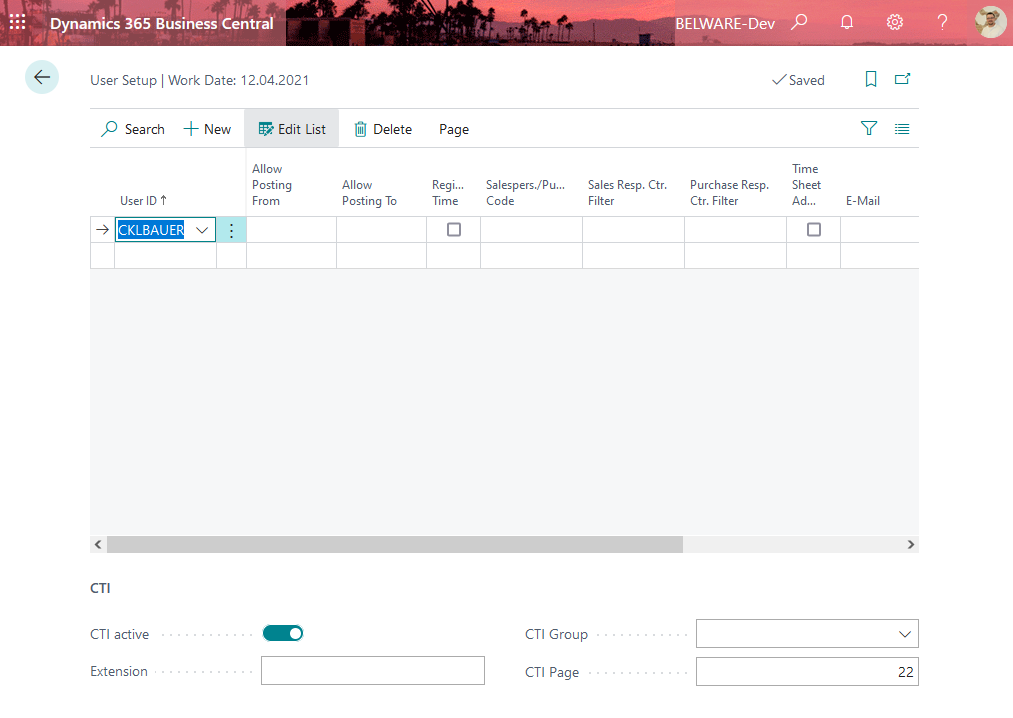
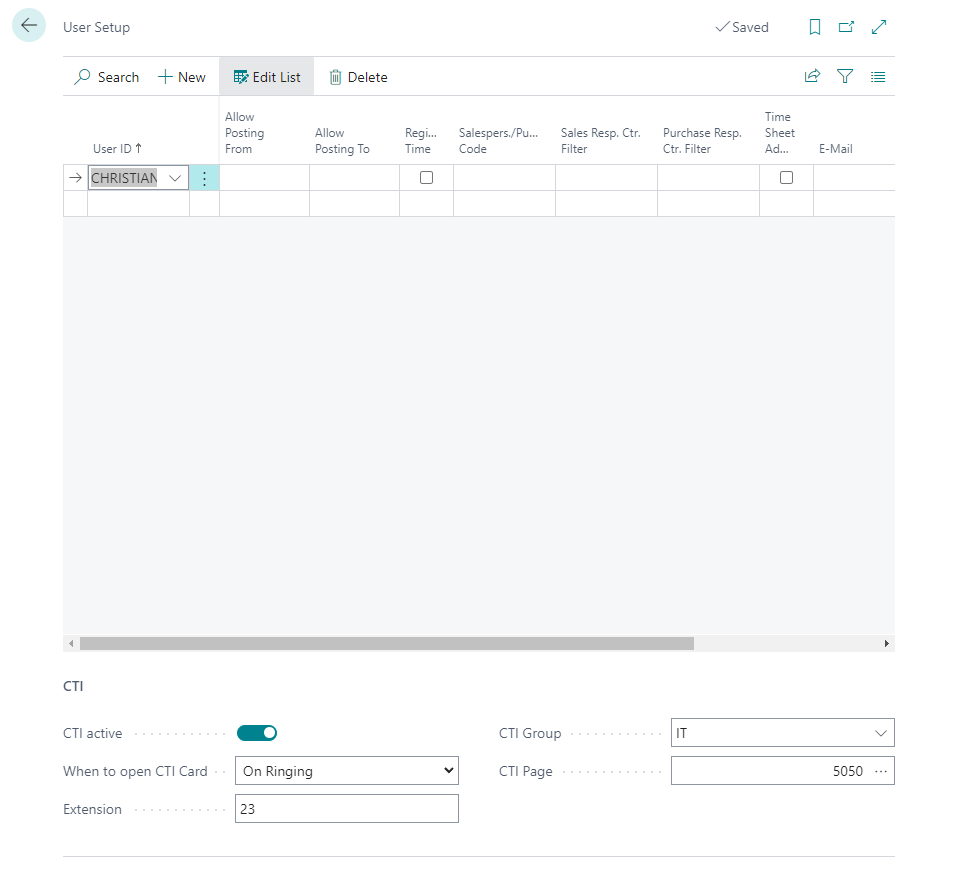
Update 171121 - Verschiedene Änderungen

diff --git a/content/de-de/Apps/CTI for STARFACE/first steps/setup/user & groups.md b/content/de-de/Apps/CTI for STARFACE/first steps/setup/user & groups.md
@@ -25,7 +25,7 @@ Wiederholen Sie diesen Prozess bis alle gewünschten Gruppen angelegt sind.
 
 Als nächsten Schritt sollten Sie Ihre Nutzer anlegen. öffnen Sie erneut die Suchfunktion und suchen Sie nach **"Benutzer Einrichtung"**, legen Sie in der Tabelle den gewünschten Nutzer an, falls dieser noch nicht vorhanden ist. Setzen Sie anschließend im unteren Teil des Dialogs bei **"CTI aktiv"** den Haken um die Nutzung der CTI für diesen Nutzer freizugeben.
 
-Geben Sie nun noch im Feld für die Durchwahl, die entsprechende Durchwahl des Nutzers an. Zum schluss können Sie dem Nutzer noch optional eine Gruppe zuweisen, dies können Sie im Feld **"CTI Gruppe"** vornehmen.
+Geben Sie nun noch im Feld für die Durchwahl, die entsprechende Durchwahl des Nutzers an. Anschließend können Sie dem Nutzer noch optional eine Gruppe zuweisen, dies können Sie im Feld **"CTI Gruppe"** vornehmen.
 
 Im Feld **"CTI-Seite"** können Sie die beliebige Seiten ausgewählt werden, welche sich bei eingehenden Anrufen automatisch öffnet. Diese Seiten basieren auf den folgenden Tabellen:
 
@@ -34,5 +34,7 @@ Im Feld **"CTI-Seite"** können Sie die beliebige Seiten ausgewählt werden, wel
 - Kreditoren (27)
 
 Bei Debitoren und Kreditoren ist zu beachten, dass diese mit einem Kontakt verknüpft sein müssen.
+
+Im Feld **"Wann die CTI-Karte zu öffnen ist"** lässt sich einrichten, wann genau der Kontakt geöffnet wird. Entweder beim eingehenden Anruf oder erst wenn der Anruf von jemandem angenommen wird.
 
 Wiederholen Sie diesen Prozess für alle Nutzer der Connector 365 CTI for STARFACE App.

diff --git a/content/de-de/Apps/CTI for STARFACE/new and planned/V1.0.1.8.md b/content/de-de/Apps/CTI for STARFACE/new and planned/V1.0.1.8.md
@@ -1,19 +1,18 @@
 ---
-title: "V1.0.1.3 & Roadmap"
+title: "V1.0.1.8 & Roadmap"
 date: 2020-02-28T10:08:56+09:00
 description: 
 draft: false
 collapsible: false
-weight: 2
+weight: 1
 ---
 ### Neu und geplant
 
-### Version 1.0.1.3
-- Warnung beim schließen des CTI-Clients
-- Änderung der Einrichtung des Moduls
+### Version 1.0.1.8
+- Die Telefonnotizen lassen sich nun im Nachhinein bearbeiten.
+- Es lässt sich einstellen wann sich die CTI-Karte öffnet.
 
 ### Geplante Funktionen für zukünftige Versionen
 - Automatisches Anlegen von kontakten bei unbekannten Nummern
 - Anpassung der Jobliste passend zur App
-- Editierbare CTI Notizen
 - Ausblenden der CTI Funktionen im Rollencenter für Nicht-CTI-Nutzer

diff --git a/content/de-de/Apps/CTI for STARFACE/working with CTI for STARFACE/cti notes.md b/content/de-de/Apps/CTI for STARFACE/working with CTI for STARFACE/cti notes.md
@@ -19,6 +19,8 @@ Wählen Sie zunächst den entsprechenden Eintrag in den **"CTI-Einträgen"** aus
 
 Nachdem Sie Ihre Notiz verfasst haben wird diese in den Notizen angezeigt. Um die verfasste Notiz erneut einzusehen können Sie entweder über die gleiche Schaltfläche zum erstellen von Notizen, sich erstellte Notizen erneut anzeigen lassen oder alternativ auf die 3 Punkte neben der Notiz klicken, dort finden Sie ebenfalls die Option zur Ansicht.
 
+Wird die Notiz angezeigt, so ist es hier auch nochmal möglich die Notiz zu bearbeiten.
+
 ![](images/apps/ctinotefillde.PNG)
 
 Ein längeres hovern über die Vorschau der Nachricht in der Factbox zeigt Ihnen die geschriebene Notiz auch an.

diff --git a/content/en-us/Apps/CTI for STARFACE/new and planned/V1.0.1.8.md b/content/en-us/Apps/CTI for STARFACE/new and planned/V1.0.1.8.md
@@ -1,20 +1,18 @@
 ---
-title: "V1.0.1.3 & Roadmap"
+title: "V1.0.1.8 & Roadmap"
 date: 2020-02-28T10:08:56+09:00
 description: 
 draft: false
 collapsible: false
-weight: 2
+weight: 1
 ---
 ### New and planned
 
-### Version 1.0.1.3
-- Warning when closing the CTI Client
-- Changes to the module setup
+### Version 1.0.1.8
+- The phone notes can now be edited afterwards.
+- It is possible to set when the CTI card opens.
 
 ### Planned functions for future versions
 - Automatic creation of contacts for unknown numbers
 - Customization of the job list to match the app
-- Editable CTI notes
 - Hiding the CTI functions in the Role center for non-CTI users
-

diff --git a/content/en-us/Apps/CTI for STARFACE/working with CTI for STARFACE/cti notes.md b/content/en-us/Apps/CTI for STARFACE/working with CTI for STARFACE/cti notes.md
@@ -19,6 +19,8 @@ First select the corresponding entry in the **"CTI entries"**, now look in the r
 
 After you have written your note, it will be displayed in the notes. To view the note again, you can either click on the same button to create notes, to view created notes again or alternatively click on the 3 dots next to the note, there you will also find the option to view.
 
+If the note is displayed, it is also possible to edit the note here again.
+
 ![](images/apps/ctinotefillen.PNG)
 
 A longer hover over the preview of the message in the factbox will also show you the written note.

diff --git a/content/de-de/Apps/E-Post/first steps/setup/reportselection.md b/content/de-de/Apps/E-Post/first steps/setup/reportselection.md
@@ -11,8 +11,8 @@ weight: 2
 ### Berichtsauswahl
 Vor dem ersten Versand, muss in der Berichtsauswahl die Berichte für den E-POST Versand festgelegt werden. Aktuell gibt es diese Möglichkeit in **"Berichtsauswahl Verkauf"** und **"Berichtsauswahl Mahnung"**
 
-[SCREENSHOT]
+![](images/apps/epostreportselectionde.PNG)
 
-Nur Berichte bei denen der Haken in der Option "Für E-POST nutzen" gesetzt ist, werden berücksichtigt.
+Nur Berichte bei denen der Haken in der Option **"Für E-POST nutzen"** gesetzt ist, werden berücksichtigt.
 
 

diff --git a/content/de-de/Apps/easybatch/new and planned/V1.0.0.6.md b/content/de-de/Apps/easybatch/new and planned/V1.0.0.6.md
@@ -1,17 +1,15 @@
 ---
-title: "V1.0.0.0 & Roadmap"
+title: "V1.0.0.6 & Roadmap"
 date: 2020-02-28T10:08:56+09:00
 description: 
 draft: false
 collapsible: false
-weight: 2
+weight: 1
 ---
 ### Neu und geplant
 
-### Version 1.0.0.0
-- Intelligente Prozesssteuerung
-- Stapelverarbeitung von Belegen
-- Steuerung via Belegsendeprofilen
+### Version 1.0.0.6
+- Logik bei der Auswahl des Berichtslayouts an den Standard angeglichen
 
 ### Geplante Funktionen für zukünftige Versionen
 - Integration von kreditorischen Belegen.

diff --git a/content/en-us/Apps/E-Post/first steps/setup/reportselection.md b/content/en-us/Apps/E-Post/first steps/setup/reportselection.md
@@ -11,6 +11,8 @@ weight: 2
 ### Report selection
 Before sending the first letter, the reports for sending with E-POST must be defined in the report selection. Currently, this option is available in **"Report selection sales"** and **"Report selection reminder"**.
 
-Only reports with a check mark in the "Use for E-POST" option are taken into account.
+![](images/apps/epostreportselectionen.PNG)
+
+Only reports with a check mark in the **"Use for E-POST"** option are taken into account.
 
 

diff --git a/content/en-us/Apps/mail_attachment_plus/new and planned/V1.0.0.8.md b/content/en-us/Apps/mail_attachment_plus/new and planned/V1.0.0.8.md
@@ -1,17 +1,15 @@
 ---
-title: "V1.0.0.7 & Roadmap"
+title: "V1.0.0.8 & Roadmap"
 date: 2020-02-28T10:08:56+09:00
 description: 
 draft: false
 collapsible: false
-weight: 2
+weight: 1
 ---
 ### New and planned
 
-### Version 1.0.0.7
-- Bug fixes
-- Improving the translation
-- Document attachments as email attachments
+### Version 1.0.0.8
+- Error correction during transfer of attachments
 
 ### Planned features for future versions
 - Attachment functionalities on further levels

diff --git a/content/de-de/Apps/mail_attachment_plus/new and planned/V1.0.0.8.md b/content/de-de/Apps/mail_attachment_plus/new and planned/V1.0.0.8.md
@@ -1,15 +1,15 @@
 ---
-title: "V1.0.0.5 & Roadmap"
+title: "V1.0.0.8 & Roadmap"
 date: 2020-02-28T10:08:56+09:00
 description: 
 draft: false
 collapsible: false
-weight: 3
+weight: 1
 ---
 ### Neu und geplant
 
-### Version 1.0.0.5
-- Fehlerkorrekturen
+### Version 1.0.0.8
+- Fehlerkorrektur bei Übernahme der Anhänge
 
 ### Geplante Funktionen für zukünftige Versionen
 - Anhangsfunktionalitäten auf weiteren Ebenen

diff --git a/content/en-us/Apps/CTI for STARFACE/first steps/setup/user & groups.md b/content/en-us/Apps/CTI for STARFACE/first steps/setup/user & groups.md
@@ -34,4 +34,6 @@ In the **"CTI page"** field, you can select any pages that will open automatical
 
 For customers and vendors, note that they must be linked to a contact.
 
+In the field **"When to open CTI card"** you can configure when exactly the contact is opened. Either at the incoming call or only when the call is accepted by someone.
+
 Repeat this process for all users of the Connector 365 CTI for STARFACE App.

diff --git a/content/en-us/Apps/easybatch/new and planned/V1.0.0.6.md b/content/en-us/Apps/easybatch/new and planned/V1.0.0.6.md
@@ -1,0 +1,17 @@
+---
+title: "V1.0.0.6 & Roadmap"
+date: 2020-02-28T10:08:56+09:00
+description: 
+draft: false
+collapsible: false
+weight: 1
+---
+### New and planned
+
+### Version 1.0.0.6
+- Logic when selecting the report layout aligned with the standard
+
+### Planned functions for future versions
+- Integration of credit-side documents.
+- Background generation and sending of the documents
+
